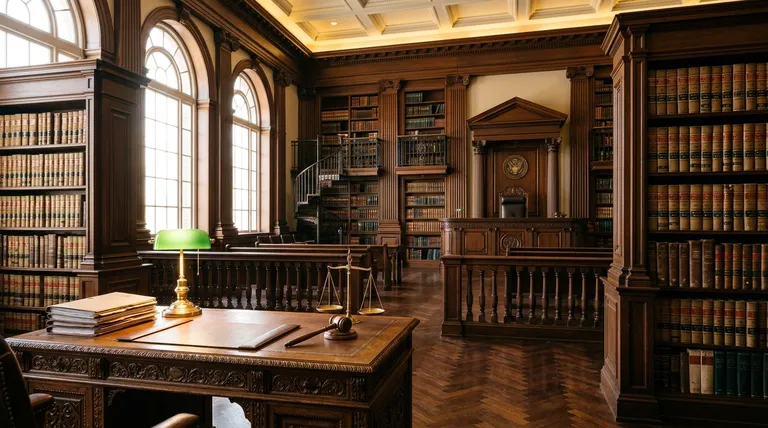
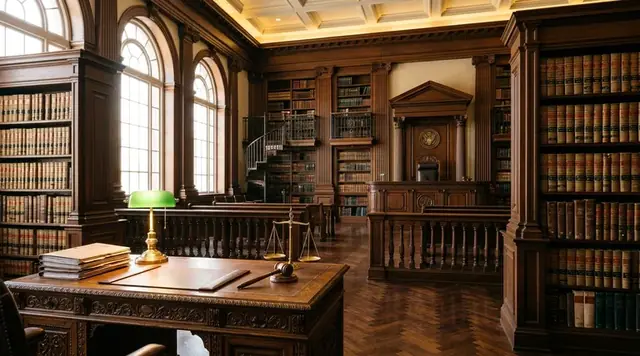
perf: optimize hero assets and accessibility

Changed region(s): [[0.2188, 0.7416, 0.25, 0.7725], [0.1562, 0.7107, 0.1875, 0.7416], [0.0312, 0.4017, 0.0625, 0.4326]]

diff --git a/index.html b/index.html
@@ -201,9 +201,9 @@
 
             <div class="intro__buttons">
               <div class="intro__pagination" id="heroPagination" role="tablist" aria-label="Слайды">
-                <button class="intro__bullet active" type="button" data-index="0" aria-label="Слайд 1 - Правовой Компас"></button>
-                <button class="intro__bullet" type="button" data-index="1" aria-label="Слайд 2 - Арбитраж и Бизнес"></button>
-                <button class="intro__bullet" type="button" data-index="2" aria-label="Слайд 3 - Свобода от Долгов"></button>
+                <button class="intro__bullet active" type="button" role="tab" aria-selected="true" data-index="0" aria-label="Слайд 1 - Правовой Компас"></button>
+                <button class="intro__bullet" type="button" role="tab" aria-selected="false" data-index="1" aria-label="Слайд 2 - Арбитраж и Бизнес"></button>
+                <button class="intro__bullet" type="button" role="tab" aria-selected="false" data-index="2" aria-label="Слайд 3 - Свобода от Долгов"></button>
               </div>
               <div class="intro__btn">
                 <button class="intro__arrow" id="heroPrevBtn" aria-label="Предыдущий слайд" type="button">
@@ -272,10 +272,10 @@
             </div>
 
             <!-- Service Category Filter Tabs -->
-            <div class="services__tabs reveal" role="tablist">
-              <button class="service-tab active" data-filter="all" type="button" role="tab">Все услуги</button>
-              <button class="service-tab" data-filter="citizens" type="button" role="tab">Для граждан</button>
-              <button class="service-tab" data-filter="business" type="button" role="tab">Для бизнеса</button>
+            <div class="services__tabs reveal" role="tablist" aria-label="Категории услуг">
+              <button class="service-tab active" data-filter="all" type="button" role="tab" aria-selected="true">Все услуги</button>
+              <button class="service-tab" data-filter="citizens" type="button" role="tab" aria-selected="false">Для граждан</button>
+              <button class="service-tab" data-filter="business" type="button" role="tab" aria-selected="false">Для бизнеса</button>
             </div>
 
             <div class="services__content-grid">
@@ -634,7 +634,7 @@
                     </svg>
                   </div>
                   <div>
-                    <h4 class="info-feature__title">Прозрачный договор</h4>
+                    <h3 class="info-feature__title">Прозрачный договор</h3>
                     <p class="info-feature__text">Фиксированная смета без непредвиденных доплат и скрытых комиссий.</p>
                   </div>
                 </div>
@@ -647,7 +647,7 @@
                     </svg>
                   </div>
                   <div>
-                    <h4 class="info-feature__title">Адвокатская тайна</h4>
+                    <h3 class="info-feature__title">Адвокатская тайна</h3>
                     <p class="info-feature__text">Абсолютная конфиденциальность сведений и защита коммерческой информации.</p>
                   </div>
                 </div>
@@ -660,7 +660,7 @@
                     </svg>
                   </div>
                   <div>
-                    <h4 class="info-feature__title">Персональный юрист</h4>
+                    <h3 class="info-feature__title">Персональный юрист</h3>
                     <p class="info-feature__text">Постоянная связь, регулярные отчеты и контроль дела на каждом этапе.</p>
                   </div>
                 </div>
@@ -675,7 +675,7 @@
                     </svg>
                   </div>
                   <div>
-                    <h4 class="info-feature__title">Ориентация на результат</h4>
+                    <h3 class="info-feature__title">Ориентация на результат</h3>
                     <p class="info-feature__text">Более 98% выигранных дел в судах различных юрисдикций РФ.</p>
                   </div>
                 </div>
@@ -1235,6 +1235,7 @@
       <footer class="footer">
         <section class="contact" id="contact">
           <div class="container">
+            <h2 class="visually-hidden">Контакты и запись на консультацию</h2>
             <div class="contact__top reveal">
               <div class="contact__brand-block">
                 <span class="logo">ЮрГарант</span>
@@ -1568,10 +1569,10 @@
             </div>
           </div>
 
-          <div class="all-reviews__filter-tabs">
-            <button class="all-reviews__tab active" type="button" data-filter="all">Все отзывы (25)</button>
-            <button class="all-reviews__tab" type="button" data-filter="business">Для бизнеса (13)</button>
-            <button class="all-reviews__tab" type="button" data-filter="personal">Для граждан (12)</button>
+          <div class="all-reviews__filter-tabs" role="tablist" aria-label="Фильтр отзывов">
+            <button class="all-reviews__tab active" type="button" role="tab" aria-selected="true" data-filter="all">Все отзывы (25)</button>
+            <button class="all-reviews__tab" type="button" role="tab" aria-selected="false" data-filter="business">Для бизнеса (13)</button>
+            <button class="all-reviews__tab" type="button" role="tab" aria-selected="false" data-filter="personal">Для граждан (12)</button>
           </div>
 
           <div class="all-reviews__list" id="allReviewsContainer">

diff --git a/css/style.css b/css/style.css
@@ -19,7 +19,7 @@
   --color-text-main: #0b1120;
   --color-text-body: #334155;
   --color-text-muted: #64748b;
-  --color-text-light: #94a3b8;
+  --color-text-light: #cbd5e1;
 
   --color-bg-white: #ffffff;
   --color-bg-alt: #edf2f7;
@@ -111,6 +111,18 @@ button {
   min-height: 100%;
   display: flex;
   flex-direction: column;
+}
+
+.visually-hidden {
+  position: absolute;
+  width: 1px;
+  height: 1px;
+  padding: 0;
+  margin: -1px;
+  overflow: hidden;
+  clip: rect(0, 0, 0, 0);
+  white-space: nowrap;
+  border: 0;
 }
 
 .main {
@@ -387,7 +399,7 @@ button {
 .logo__desc {
   font-size: 11px;
   text-transform: uppercase;
-  color: #94a3b8;
+  color: #cbd5e1;
   font-weight: 600;
   letter-spacing: 1.2px;
   margin-top: 2px;
@@ -434,8 +446,8 @@ button {
   border: none;
   cursor: pointer;
   padding: 8px;
-  width: 40px;
-  height: 40px;
+  width: 48px;
+  height: 48px;
   position: relative;
   z-index: 110;
 }
@@ -445,27 +457,27 @@ button {
 .burger::after {
   content: "";
   position: absolute;
-  left: 8px;
-  right: 8px;
+  left: 10px;
+  right: 10px;
   height: 2px;
   background-color: #ffffff;
   transition: transform var(--transition-base), opacity var(--transition-base), top var(--transition-base);
 }
 
 .burger::before {
-  top: 12px;
+  top: 15px;
 }
 
 .burger__item {
-  top: 19px;
+  top: 23px;
 }
 
 .burger::after {
-  top: 26px;
+  top: 31px;
 }
 
 .burger.active::before {
-  top: 19px;
+  top: 23px;
   transform: rotate(45deg);
 }
 
@@ -474,7 +486,7 @@ button {
 }
 
 .burger.active::after {
-  top: 19px;
+  top: 23px;
   transform: rotate(-45deg);
 }
 
@@ -519,27 +531,30 @@ button {
   transform: scale(1);
 }
 
+/* Mobile-first: mobile images by default for minimal payload */
 .intro__bg-slide[data-slide="0"] {
-  background-image: url('../images/header-intro/hero-slide-1.webp');
+  background-image: url('../images/header-intro/hero-slide-1-mobile.webp');
 }
 
 .intro__bg-slide[data-slide="1"] {
-  background-image: url('../images/header-intro/hero-slide-2.webp');
+  background-image: url('../images/header-intro/hero-slide-2-mobile.webp');
 }
 
 .intro__bg-slide[data-slide="2"] {
-  background-image: url('../images/header-intro/hero-slide-3.webp');
+  background-image: url('../images/header-intro/hero-slide-3-mobile.webp');
 }
 
-@media (max-width: 768px) {
+@media (min-width: 769px) {
   .intro__bg-slide[data-slide="0"] {
-    background-image: url('../images/header-intro/hero-slide-1-mobile.webp');
+    background-image: url('../images/header-intro/hero-slide-1.webp');
   }
+
   .intro__bg-slide[data-slide="1"] {
-    background-image: url('../images/header-intro/hero-slide-2-mobile.webp');
+    background-image: url('../images/header-intro/hero-slide-2.webp');
   }
+
   .intro__bg-slide[data-slide="2"] {
-    background-image: url('../images/header-intro/hero-slide-3-mobile.webp');
+    background-image: url('../images/header-intro/hero-slide-3.webp');
   }
 }
 
@@ -660,6 +675,7 @@ button {
 }
 
 .intro__bullet {
+  position: relative;
   width: 4px;
   height: 22px;
   border: none;
@@ -668,6 +684,16 @@ button {
   cursor: pointer;
   padding: 0;
   transition: height var(--transition-fast), background-color var(--transition-fast), transform var(--transition-fast);
+}
+
+.intro__bullet::before {
+  content: "";
+  position: absolute;
+  top: 50%;
+  left: 50%;
+  transform: translate(-50%, -50%);
+  width: 28px;
+  height: 48px;
 }
 
 .intro__bullet:hover {
@@ -689,8 +715,8 @@ button {
   background: rgba(255, 255, 255, 0.12);
   border: none;
   border-radius: 50%;
-  width: 44px;
-  height: 44px;
+  width: 48px;
+  height: 48px;
   display: flex;
   align-items: center;
   justify-content: center;

diff --git a/js/main.js b/js/main.js
@@ -130,8 +130,10 @@ document.addEventListener('DOMContentLoaded', function () {
       heroBullets.forEach(function (bullet, i) {
         if (i === index) {
           bullet.classList.add('active');
+          bullet.setAttribute('aria-selected', 'true');
         } else {
           bullet.classList.remove('active');
+          bullet.setAttribute('aria-selected', 'false');
         }
       });
     }
@@ -302,8 +304,10 @@ document.addEventListener('DOMContentLoaded', function () {
     tab.addEventListener('click', function () {
       serviceTabs.forEach(function (t) {
         t.classList.remove('active');
+        t.setAttribute('aria-selected', 'false');
       });
       tab.classList.add('active');
+      tab.setAttribute('aria-selected', 'true');
 
       const filter = tab.getAttribute('data-filter');
 
@@ -544,8 +548,12 @@ document.addEventListener('DOMContentLoaded', function () {
   if (allReviewsTabs && allReviewsTabs.length) {
     allReviewsTabs.forEach(function (tab) {
       tab.addEventListener('click', function () {
-        allReviewsTabs.forEach(function (t) { t.classList.remove('active'); });
+        allReviewsTabs.forEach(function (t) {
+          t.classList.remove('active');
+          t.setAttribute('aria-selected', 'false');
+        });
         tab.classList.add('active');
+        tab.setAttribute('aria-selected', 'true');
         const filter = tab.getAttribute('data-filter') || 'all';
 
         allReviewsItems.forEach(function (item) {
